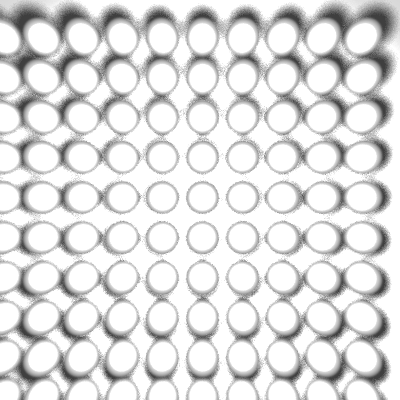
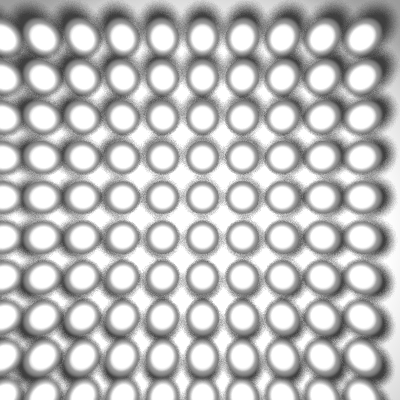
Nearly working Pinhole with shadows OpenCL implementation

diff --git a/src/Cameras/ThinLens.cpp b/src/Cameras/ThinLens.cpp
@@ -25,7 +25,7 @@ ThinLens::ThinLens(Point3D e, Point3D l, Vector3D u)
 : Camera(e, l, u), lens_radius(0.0), zoom(1.0), sampler_ptr(NULL) {}
 
 ThinLens::ThinLens(Point3D e, Point3D l, Vector3D u, float exp)
-: Camera(e, l, u, exp), lens_radius(0.0), zoom(1.0) {}
+: Camera(e, l, u, exp), lens_radius(0.0), zoom(1.0), sampler_ptr(NULL) {}
 
 ThinLens::~ThinLens() {
 	if(sampler_ptr != NULL){
@@ -64,8 +64,7 @@ void ThinLens::render_scene(World& w) {
 				L += w.tracer_ptr->trace_ray(ray);
 			}
 
-			L /= vp.num_samples;
-			L *= exposure_time;
+			L *= exposure_time / vp.num_samples;
 			w.display_pixel(r, c, L);
 		}
 	w.renderer->display();
@@ -106,10 +105,9 @@ void ThinLens::opencl_render_scene(World& w) {
 	// OPENCL KERNEL //
 	///////////////////
 
-	std::ifstream t("./src/thin_lens_tracer.cl");
+	std::ifstream t("./src/thin_lens_raycast_tracer.cl");
 	std::string str((std::istreambuf_iterator<char>(t)),
 				  std::istreambuf_iterator<char>());
-	// std::cout << str << std::endl;
 	const char* source_string = str.c_str();
 
 	// Create an OpenCL program by performing runtime source compilation
@@ -126,12 +124,12 @@ void ThinLens::opencl_render_scene(World& w) {
 
 	int samples_count;
 	int indices_count;
-	int disc_samples_count;
-	int disc_indices_count;
+	int disk_samples_count;
+	int disk_indices_count;
 	cl_double2* cl_samples = sampler->get_cl_samples(samples_count);
 	cl_int* cl_shuffled_indices = sampler->get_cl_shuffled_indices(indices_count);
-	cl_double2* cl_disc_samples = sampler_ptr->get_cl_samples(disc_samples_count);
-	cl_int* cl_disc_shuffled_indices = sampler_ptr->get_cl_shuffled_indices(disc_indices_count);
+	cl_double2* cl_disk_samples = sampler_ptr->get_cl_disk_samples(disk_samples_count);
+	cl_int* cl_disk_shuffled_indices = sampler_ptr->get_cl_shuffled_indices(disk_indices_count);
 
 	CLPlane* cl_planes;
 	int num_planes;
@@ -176,8 +174,8 @@ void ThinLens::opencl_render_scene(World& w) {
 	cl::Buffer cl_output = cl::Buffer(context, CL_MEM_WRITE_ONLY, vp.hres * vp.vres * sizeof(cl_float3), NULL);
 	cl::Buffer cl_buffer_a = cl::Buffer(context, CL_MEM_READ_ONLY | CL_MEM_COPY_HOST_PTR, samples_count * sizeof(cl_double2), cl_samples);
 	cl::Buffer cl_buffer_b = cl::Buffer(context, CL_MEM_READ_ONLY | CL_MEM_COPY_HOST_PTR, indices_count * sizeof(cl_int), cl_shuffled_indices);
-	cl::Buffer cl_buffer_c = cl::Buffer(context, CL_MEM_READ_ONLY | CL_MEM_COPY_HOST_PTR, disc_samples_count * sizeof(cl_double2), cl_disc_samples);
-	cl::Buffer cl_buffer_d = cl::Buffer(context, CL_MEM_READ_ONLY | CL_MEM_COPY_HOST_PTR, disc_indices_count * sizeof(cl_int), cl_disc_shuffled_indices);
+	cl::Buffer cl_buffer_c = cl::Buffer(context, CL_MEM_READ_ONLY | CL_MEM_COPY_HOST_PTR, disk_samples_count * sizeof(cl_double2), cl_disk_samples);
+	cl::Buffer cl_buffer_d = cl::Buffer(context, CL_MEM_READ_ONLY | CL_MEM_COPY_HOST_PTR, disk_indices_count * sizeof(cl_int), cl_disk_shuffled_indices);
 	cl::Buffer cl_buffer_e = cl::Buffer(context, CL_MEM_READ_ONLY | CL_MEM_COPY_HOST_PTR, num_planes * sizeof(CLPlane), cl_planes);
 	cl::Buffer cl_buffer_f = cl::Buffer(context, CL_MEM_READ_ONLY | CL_MEM_COPY_HOST_PTR, num_triangles * sizeof(CLTriangle), cl_triangles);
 	cl::Buffer cl_buffer_g = cl::Buffer(context, CL_MEM_READ_ONLY | CL_MEM_COPY_HOST_PTR, num_spheres * sizeof(CLSphere), cl_spheres);
@@ -259,7 +257,7 @@ Vector3D ThinLens::ray_direction(const Point2D& pixel_point,
 }
 
 void ThinLens::set_sampler(Sampler* sp) {
-	if (sampler_ptr) {
+	if (sampler_ptr != NULL) {
 		delete sampler_ptr;
 		sampler_ptr = NULL;
 	}

diff --git a/src/Samplers/Sampler.cpp b/src/Samplers/Sampler.cpp
@@ -9,6 +9,8 @@
 #include <math.h>
 #include <algorithm>  // required for random_shuffle
 
+#include <iostream>
+
 #include "Sampler.h"
 
 Sampler::Sampler ()
@@ -96,7 +98,7 @@ void Sampler::map_samples_to_unit_disk() {
 	float r, phi;                                    // polar coordinates
 	Point2D sp;                                      // sample point on unit disk
 
-	disk_samples.reserve(size);
+	disk_samples.resize(size);
 
 	for (int j = 0; j < size; j++) {
 		// map sample point to [-1, 1]  [-1,1]
@@ -171,6 +173,24 @@ cl_double2* Sampler::get_cl_samples(int& count) {
 		cl_samples[i] = (cl_double2){samples[i].x, samples[i].y};
 	}
 	return cl_samples;
+}
+
+cl_double2* Sampler::get_cl_disk_samples(int& count) {
+	count = disk_samples.size();
+	cl_double2* cl_disk_samples = new cl_double2[count];
+	for(int i = 0; i < count; i ++){
+		cl_disk_samples[i] = (cl_double2){disk_samples[i].x, disk_samples[i].y};
+	}
+	return cl_disk_samples;
+}
+
+cl_double3* Sampler::get_cl_hemisphere_samples(int& count) {
+	count = hemisphere_samples.size();
+	cl_double3* cl_hemisphere_samples = new cl_double3[count];
+	for(int i = 0; i < count; i ++){
+		cl_hemisphere_samples[i] = (cl_double3){hemisphere_samples[i].x, hemisphere_samples[i].y, hemisphere_samples[i].z};
+	}
+	return cl_hemisphere_samples;
 }
 
 cl_int* Sampler::get_cl_shuffled_indices(int& count) {

diff --git a/src/Cameras/Pinhole.cpp b/src/Cameras/Pinhole.cpp
@@ -95,7 +95,6 @@ void Pinhole::opencl_render_scene(World& w) {
     std::ifstream t("./src/pinhole_raycast_tracer.cl");
     std::string str((std::istreambuf_iterator<char>(t)),
                   std::istreambuf_iterator<char>());
-    // std::cout << str << std::endl;
     const char* source_string = str.c_str();
 
     // Create an OpenCL program by performing runtime source compilation

diff --git a/src/World/World.cpp b/src/World/World.cpp
@@ -142,7 +142,7 @@ void World::build(){
 
 	PointLight* l = new PointLight(Point3D(0,0,500));
 	l->set_shadows(true);
-	l->set_ls(5.0);
+	l->set_ls(3.0);
 	add_light(l);
 
 	// spheres
@@ -220,6 +220,7 @@ ShadeRec World::hit_objects(const Ray& ray) const {
 
 	if (sr.hit_an_object) {
 		sr.normal = normal;
+		sr.normal.normalize();
 		sr.local_hit_point = local_hit_point;
 	}
 

diff --git a/src/Cameras/Orthographic.cpp b/src/Cameras/Orthographic.cpp
@@ -88,7 +88,6 @@ void Orthographic::opencl_render_scene(World& w) {
 	std::ifstream t("./src/orthographic_raycast_tracer.cl");
 	std::string str((std::istreambuf_iterator<char>(t)),
 				  std::istreambuf_iterator<char>());
-	// std::cout << str << std::endl;
 	const char* source_string = str.c_str();
 
 	// Create an OpenCL program by performing runtime source compilation

diff --git a/include/Samplers/Sampler.h b/include/Samplers/Sampler.h
@@ -32,6 +32,8 @@ class Sampler {
 			int get_num_sets();
 			cl_double2* get_cl_samples(int& count);
 			cl_int* get_cl_shuffled_indices(int& count);
+			cl_double2* get_cl_disk_samples(int& count);
+			cl_double3* get_cl_hemisphere_samples(int& count);
 
 			// generate sample patterns in a unit square
 			virtual void generate_samples() = 0;
